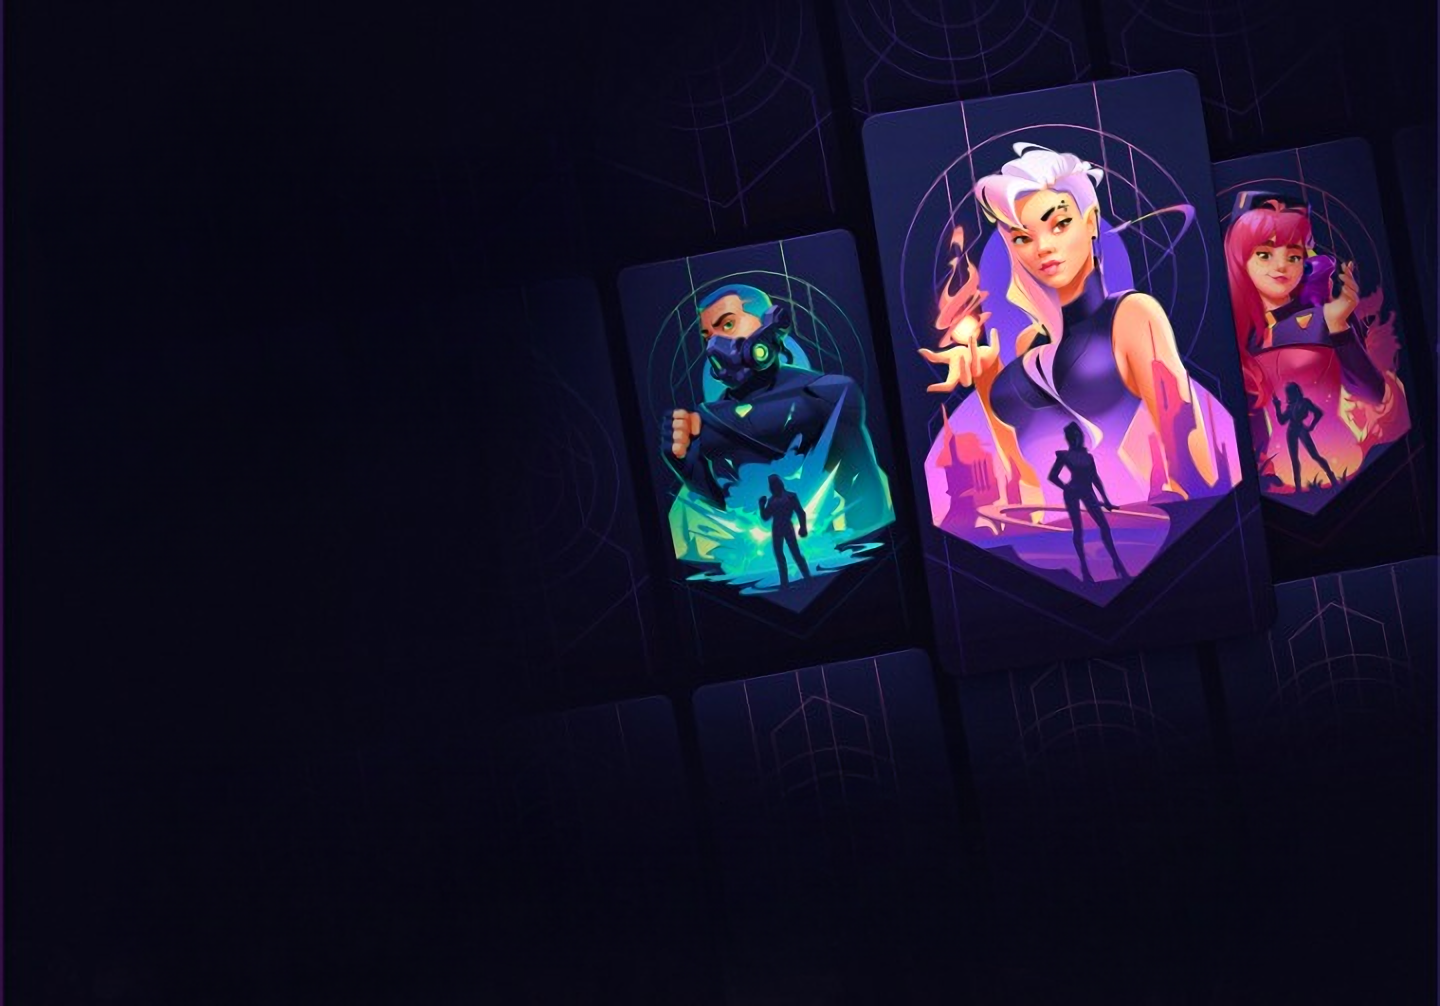
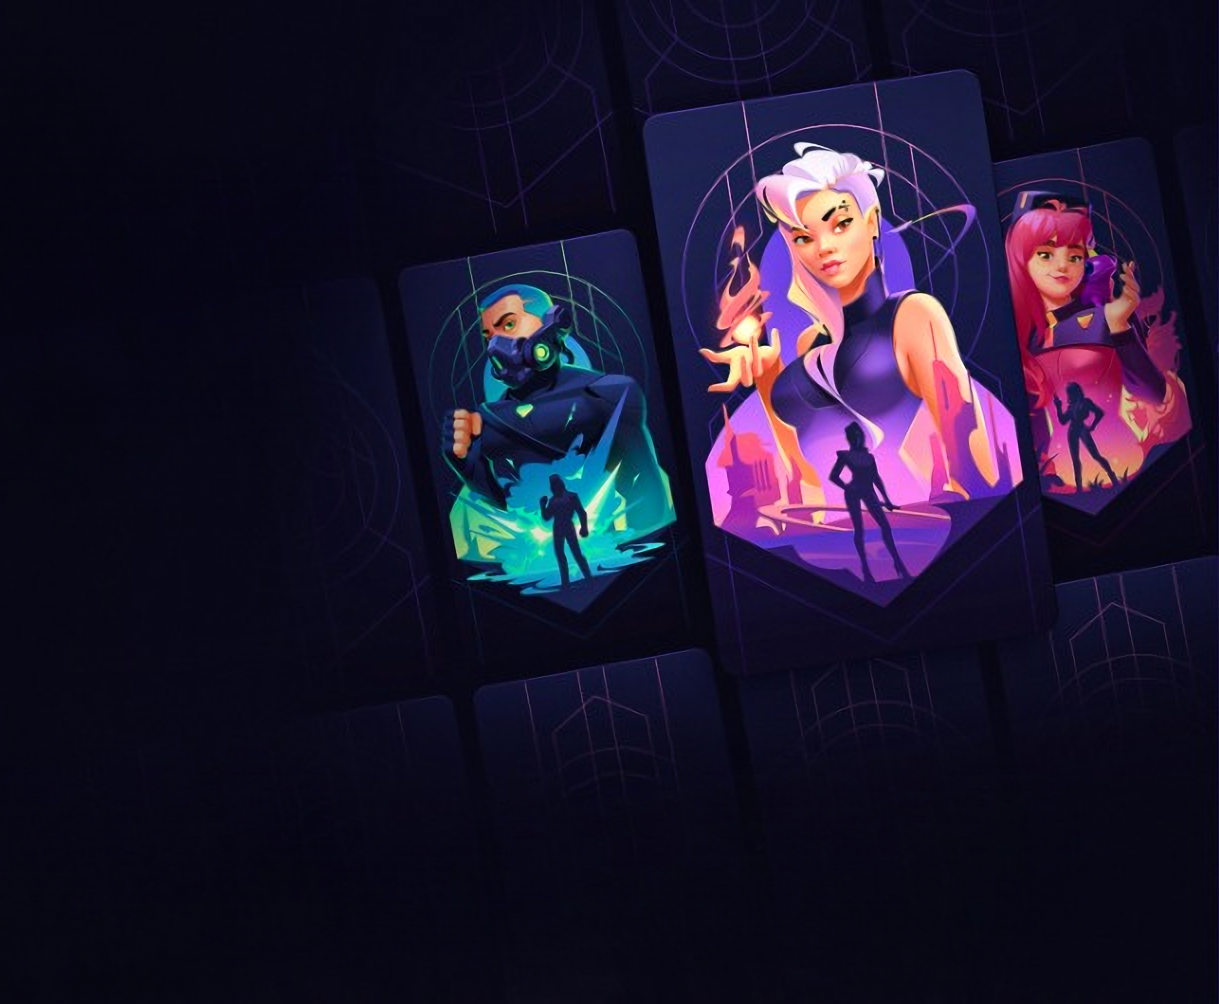
feat: animations on main screen

diff --git a/components/MainScreen.tsx b/components/MainScreen.tsx
@@ -1,38 +1,155 @@
+import Image from "next/image";
 import React from "react";
+import symbol1 from "public/symbol1.png";
+import symbol2 from "public/symbol2.png";
+import symbol3 from "public/symbol3.png";
+import symbol4 from "public/symbol4.png";
+import { motion } from "framer-motion";
+import {
+  container,
+  fromLeft,
+  item,
+  itemFromLeft,
+} from "../animations/animation";
 
 function MainScreen() {
   return (
-    <section className="min-w-screen min-h-screen bg-[url('../public/homebg.png')]">
-      <div className="min-h-screen text-white max-w-[40vw] flex flex-col justify-center p-[5rem] gap-[1rem]">
-        <h1 className="text-5xl font-semibold">
-          Beautiful Game, Intense reality
-        </h1>
-        <p className="text-gray-300">
-          Lorem ipsum dolor sit amet consectetur adipisicing elit. Laborum quis
-          in assumenda amet consectetur adipisicing.
-        </p>
-        <div className="flex gap-3">
-          <button className="bg-[#4521f3] px-4 py-2 border border-[#4521f3] rounded-md">
-            Play Now
-          </button>
-          <button className=" px-4 py-2 border border-[#4521f3] rounded-md">
-            Learn More
-          </button>
+    <section className="min-w-screen min-h-screen ">
+      <motion.div
+        variants={container}
+        initial="hidden"
+        animate="show"
+        transition={{ ease: "easeInOut" }}
+        className="bg-[url('../public/homebg.png')] bg-no-repeat bg-contain bg-right-top bg-[#070614]"
+      >
+        <div className="text-white min-h-[100vh] max-w-[40vw] flex flex-col justify-center p-[5rem] gap-[1rem] ">
+          <div className="overflow-hidden">
+            <motion.h1
+              variants={item}
+              transition={{ duration: 1, ease: "easeInOut" }}
+              className="text-5xl font-semibold"
+            >
+              Beautiful Game, Intense reality
+            </motion.h1>
+          </div>
+          <div className="overflow-hidden">
+            <motion.p
+              variants={item}
+              transition={{ duration: 1, ease: "easeInOut" }}
+              className="text-gray-300"
+            >
+              Lorem ipsum dolor sit amet consectetur adipisicing elit. Laborum
+              quis in assumenda amet consectetur adipisicing.
+            </motion.p>
+          </div>
+          <div className="overflow-hidden">
+            <motion.div
+              variants={item}
+              transition={{ duration: 1, ease: "easeInOut" }}
+              className="flex gap-3"
+            >
+              <button className="bg-[#4521f3] px-4 py-2 border border-[#4521f3] rounded-md">
+                Play Now
+              </button>
+              <button className=" px-4 py-2 border border-[#4521f3] rounded-md">
+                Learn More
+              </button>
+            </motion.div>
+          </div>
         </div>
-      </div>
-      <div className="text-white  px-[10rem] py-[4rem]">
-        <div className="flex flex-col gap-2 w-fit">
-          <h2 className="text-3xl font-semibold max-w-[24vw]">
-            Synergy of light update is live now
-          </h2>
-          <p className="text-gray-200 max-w-[30vw]">
-            Lorem ipsum dolor sit amet consectetur adipisicing elit. Quas a
-            dolores sapiente placeat accusamu.
-          </p>
-          <button className="bg-[#4521f3] px-4 py-2 border border-[#4521f3] rounded-md w-fit">
-            Play Now
-          </button>
-        </div>
+      </motion.div>
+
+      <div className="bg-[#070614] p-[5rem] overflow-hidden">
+        <motion.div
+          initial={{ x: "50%", opacity: 0 }}
+          whileInView={{ x: "0%", opacity: 1 }}
+          transition={{ duration: 1 }}
+          className="text-white  mx-[5rem]  px-[5rem] py-[3rem] flex items-center gap-[8rem]  rounded-lg bg-[url('../public/bg.jpg')] bg-opacity-1 bg-no-repeat bg-cover bg-center bg-[#372e4a] bg-blend-multiply shadow-[0px_0px_20px_20px_#070817] overflow-hidden"
+        >
+          <motion.div
+            className="flex flex-col gap-2 w-fit "
+            variants={fromLeft}
+            initial="hidden"
+            whileInView="show"
+            transition={{ ease: "easeInOut", delay: 1 }}
+          >
+            <motion.h2
+              variants={itemFromLeft}
+              transition={{ duration: 1, ease: "easeInOut" }}
+              className="text-3xl font-semibold max-w-[24vw]"
+            >
+              Synergy of light update is live now
+            </motion.h2>
+            <motion.p
+              variants={itemFromLeft}
+              transition={{ duration: 1, ease: "easeInOut" }}
+              className="text-gray-200 max-w-[30vw]"
+            >
+              Lorem ipsum dolor sit amet consectetur adipisicing elit. Quas a
+              dolores sapiente placeat accusamu.
+            </motion.p>
+            <motion.button
+              variants={itemFromLeft}
+              transition={{ duration: 1, ease: "easeInOut" }}
+              className="bg-[#4521f3] px-4 py-2 border border-[#4521f3] rounded-md w-fit"
+            >
+              Play Now
+            </motion.button>
+          </motion.div>
+          <motion.div
+            className="flex  items-center gap-2 h-fit "
+            variants={container}
+            initial="hidden"
+            whileInView="show"
+            transition={{ ease: "easeInOut", delay: 2 }}
+          >
+            <motion.div
+              variants={item}
+              transition={{ duration: 1, ease: "easeInOut" }}
+              className="bg-[#090715] p-2 rounded-[1rem] border-2 border-gray-900 mt-[2rem]"
+            >
+              <Image
+                src={symbol2}
+                alt="water symbol"
+                className="rounded-full"
+              />
+            </motion.div>
+            <motion.div
+              variants={item}
+              transition={{ duration: 1, ease: "easeInOut" }}
+              className="bg-[#090715] p-2 rounded-[1rem] border-2 border-gray-900"
+            >
+              <Image
+                src={symbol1}
+                alt="water symbol"
+                className="rounded-full"
+              />
+            </motion.div>
+
+            <motion.div
+              variants={item}
+              transition={{ duration: 1, ease: "easeInOut" }}
+              className="bg-[#090715] p-2 rounded-[1rem] border-2 border-gray-900 mt-[2rem]"
+            >
+              <Image
+                src={symbol4}
+                alt="water symbol"
+                className="rounded-full"
+              />
+            </motion.div>
+            <motion.div
+              variants={item}
+              transition={{ duration: 1, ease: "easeInOut" }}
+              className="bg-[#090715] p-2 rounded-[1rem] border-2 border-gray-900"
+            >
+              <Image
+                src={symbol3}
+                alt="water symbol"
+                className="rounded-full"
+              />
+            </motion.div>
+          </motion.div>
+        </motion.div>
       </div>
     </section>
   );

diff --git a/animations/animation.ts b/animations/animation.ts
@@ -1,0 +1,44 @@
+export const container = {
+  hidden: { opacity: 0 },
+  show: {
+    opacity: 1,
+    transition: {
+      delayChildren: 0.5,
+      staggerChildren: 0.2,
+    },
+  },
+};
+
+export const item = {
+  hidden: { opacity: 0, y: "50%" },
+  show: {
+    opacity: 1,
+    y: "0%",
+    transition: {
+      duration: "0.5",
+    },
+  },
+};
+
+export const fromLeft = {
+  hidden: { opacity: 0, y: "5%" },
+  show: {
+    opacity: 1,
+    transition: {
+      y: "0%",
+      delayChildren: 0.5,
+      staggerChildren: 0.2,
+    },
+  },
+};
+
+export const itemFromLeft = {
+  hidden: { opacity: 0, x: "-20%" },
+  show: {
+    opacity: 1,
+    x: "0%",
+    transition: {
+      duration: "0.5",
+    },
+  },
+};
